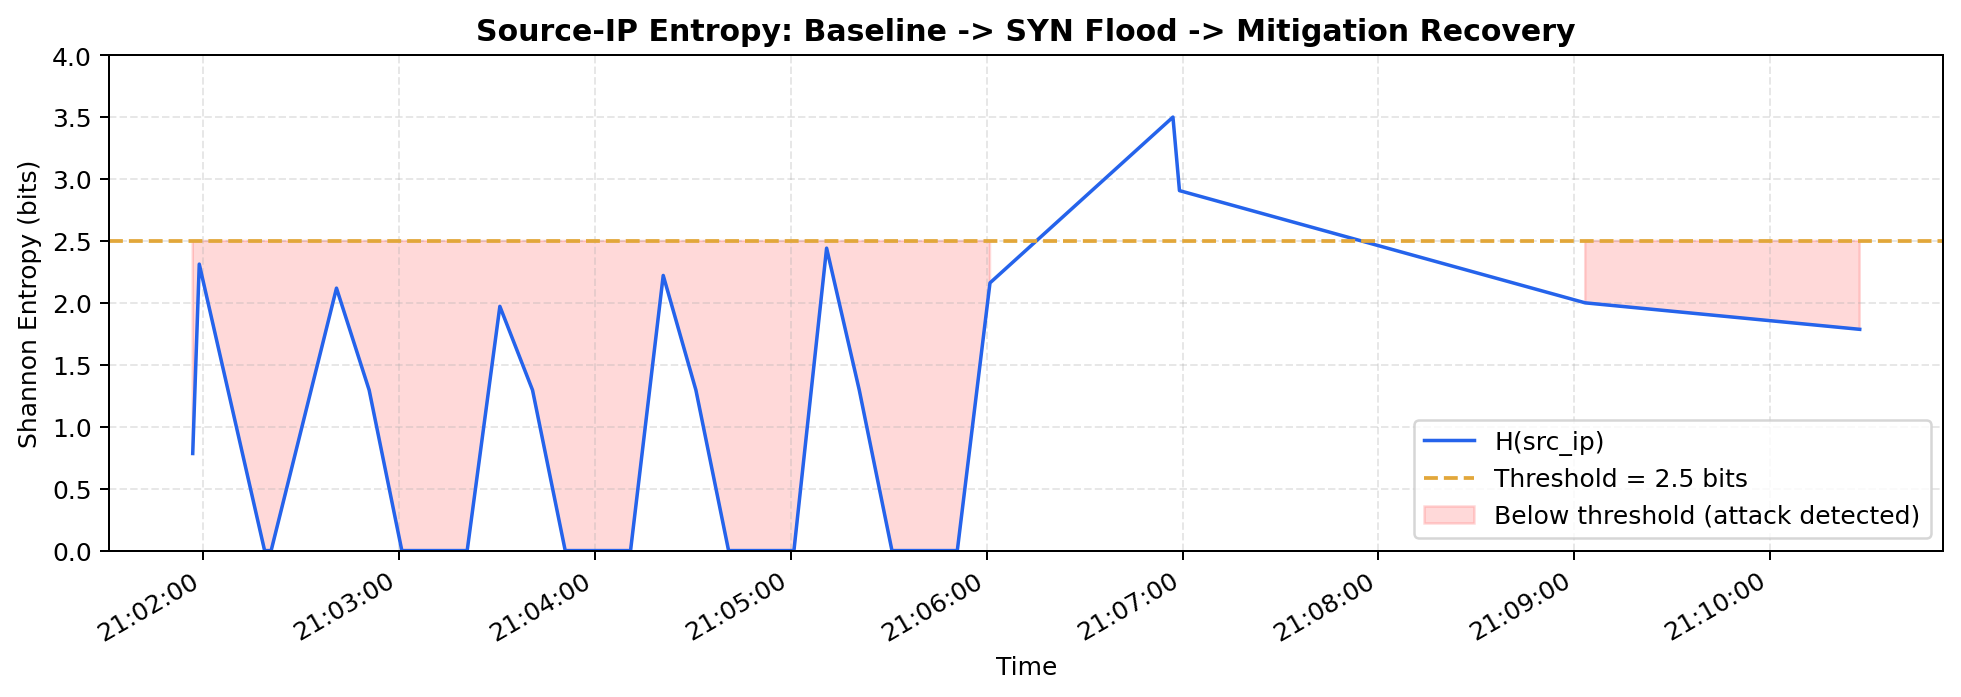
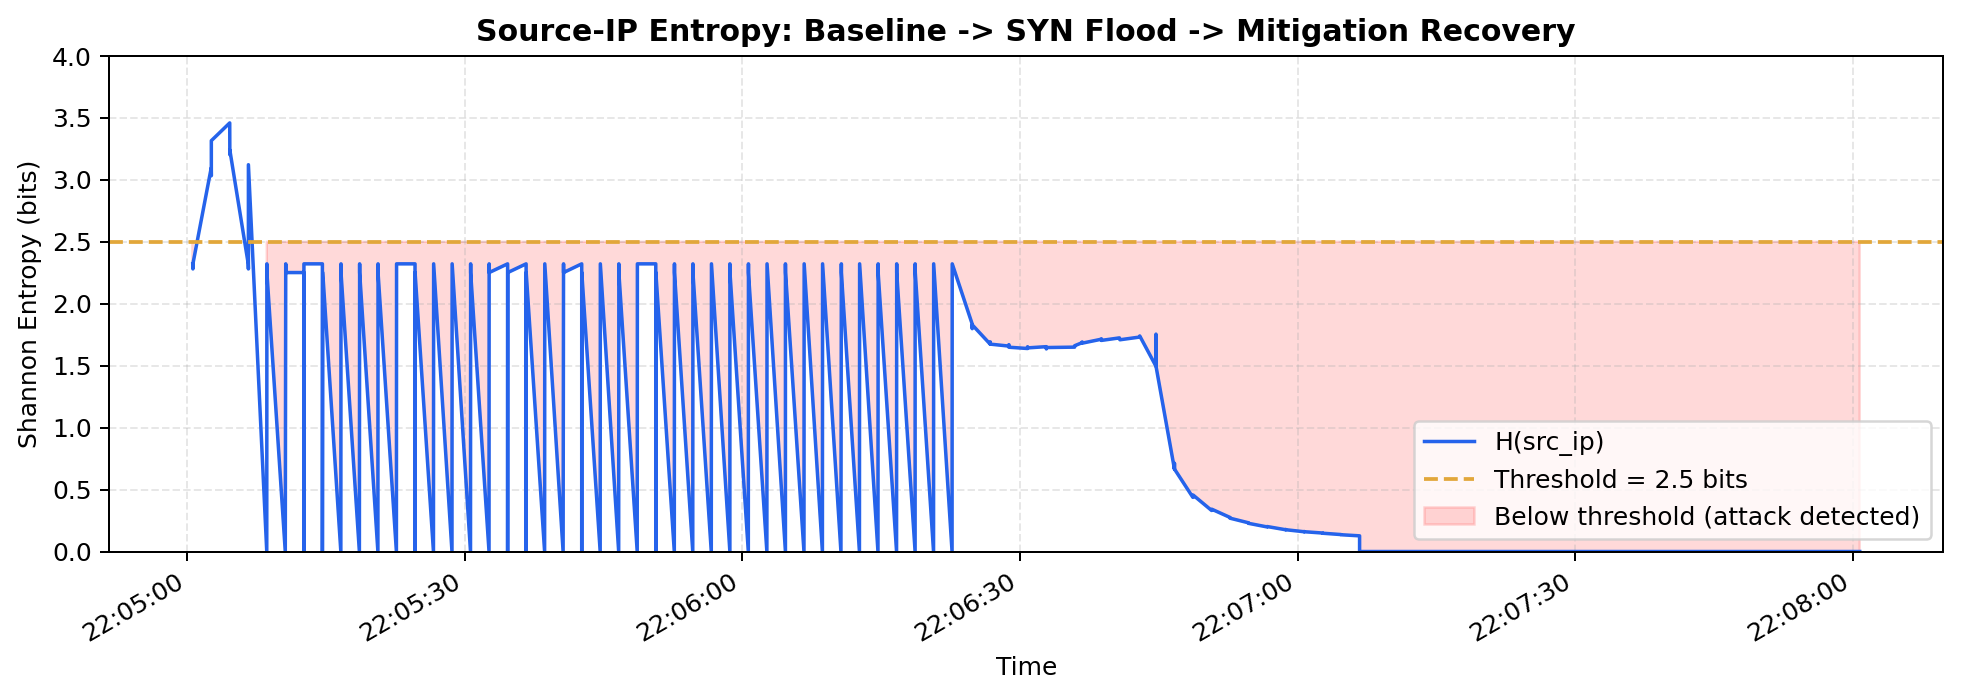
Describe your changes

diff --git a/controller/ddos_controller.py b/controller/ddos_controller.py
@@ -2,26 +2,21 @@
 """
 controller/ddos_controller.py
 
-Ryu OpenFlow 1.3 controller. Responsibilities:
-  1. L2 learning-switch forwarding (packet_in -> learn MAC -> flow_mod)
-  2. Every POLL_INTERVAL seconds: computes Shannon entropy of source IPs
-     seen via packet_in events since the last window, and logs a metrics
-     row (entropy, detection_flag, cpu_pct, mem_mb, n_flows,
-     detection_latency_ms)
-  3. Controller CPU/memory sampled via psutil every 500ms in a background
-     thread.
-  4. Detection latency: measured as the time from the FIRST polling window
-     in which entropy crosses below ENTROPY_THRESH to the moment the
-     mitigation flow-mod is actually installed.
-  5. Mitigation supports two modes: MITIGATION_MODE = "drop" installs a DROP
-     rule; MITIGATION_MODE = "rate_limit" installs an OpenFlow 1.3 meter.
+Ryu OpenFlow 1.3 controller.
 
-NOTE (fix): source-IP entropy is computed from packet_in events, not from
-flow-table stats matched on ipv4_src. Normal L2 forwarding flows installed
-by this controller only match on eth_dst/eth_src/in_port -- they never have
-an ipv4_src field -- so relying on flow stats meant entropy was never
-computed and no metrics rows were ever written. Counting source IPs
-directly off packet_in fixes this.
+Entropy is computed from FLOW STATS (packet_count), polled every
+POLL_INTERVAL seconds -- not from packet_in events. This matters:
+once a forwarding flow is installed, OpenFlow forwards matching packets
+directly at the switch and the controller stops seeing them via
+packet_in. Flow stats' packet_count keeps accumulating regardless, which
+is why this is the correct signal for a smooth, continuous entropy curve.
+
+Since our L2 forwarding flows only match on eth_src/eth_dst/in_port (no
+IP fields), we learn a mac -> ip mapping from packet_in (whenever we do
+see an IP packet) and use that to attribute each flow's packet_count to
+a source IP. We track a running delta (packets since last poll) per IP
+so entropy reflects *recent* traffic mix, not the whole flow's lifetime
+total.
 
 Run:
     ryu-manager controller/ddos_controller.py
@@ -74,9 +69,14 @@ class DDoSController(app_manager.RyuApp):
         self.mem_samples = collections.deque(maxlen=20)
         self._resource_lock = threading.Lock()
 
-        # --- source-IP tracking for entropy (fix: from packet_in, not flow stats) ---
-        self.src_ip_window = collections.Counter()
-        self._src_ip_lock = threading.Lock()
+        # --- mac <-> ip learning (needed because forwarding flows only
+        # match on L2 fields, so flow stats alone can't tell us the IP) ---
+        self.mac_to_ip = {}
+        self._mac_ip_lock = threading.Lock()
+
+        # --- per (dpid, mac) last-seen cumulative packet_count, so we can
+        # compute a DELTA each poll instead of an ever-growing total ---
+        self.last_packet_count = {}
 
         # --- detection latency tracking ---
         self.entropy_below_thresh_since = None
@@ -129,13 +129,12 @@ class DDoSController(app_manager.RyuApp):
         if eth.ethertype == ether_types.ETH_TYPE_LLDP:
             return
 
-        # --- fix: count source IPs here, since this is the only place we
-        # reliably see every packet's IP header, regardless of what match
-        # fields later get installed in the flow table ---
+        # learn mac -> ip whenever we see an IP packet, so flow-stats
+        # (which only carry L2 match fields) can be attributed to an IP
         ip_pkt = pkt.get_protocol(ipv4.ipv4)
         if ip_pkt:
-            with self._src_ip_lock:
-                self.src_ip_window[ip_pkt.src] += 1
+            with self._mac_ip_lock:
+                self.mac_to_ip[eth.src] = ip_pkt.src
 
         dst, src = eth.dst, eth.src
         dpid = datapath.id
@@ -147,7 +146,7 @@ class DDoSController(app_manager.RyuApp):
 
         if out_port != ofproto.OFPP_FLOOD:
             match = parser.OFPMatch(in_port=in_port, eth_dst=dst, eth_src=src)
-            self.add_flow(datapath, 1, match, actions, idle_timeout=30)
+            self.add_flow(datapath, 1, match, actions, idle_timeout=120)
 
         data = msg.data if msg.buffer_id == ofproto.OFP_NO_BUFFER else None
         out = parser.OFPPacketOut(
@@ -173,22 +172,46 @@ class DDoSController(app_manager.RyuApp):
             mem = sum(self.mem_samples) / len(self.mem_samples) if self.mem_samples else 0.0
         return round(cpu, 2), round(mem, 2)
 
-    # ---------------- entropy monitoring loop (fix: packet_in based) ----------------
+    # ---------------- entropy monitoring loop (flow-stats based) ----------------
     def _monitor(self):
         while True:
+            for dp in list(self.datapaths.values()):
+                self._request_stats(dp)
             hub.sleep(POLL_INTERVAL)
-            self._check_entropy()
 
-    def _check_entropy(self):
-        with self._src_ip_lock:
-            counter_snapshot = self.src_ip_window.copy()
-            self.src_ip_window.clear()
+    def _request_stats(self, datapath):
+        parser = datapath.ofproto_parser
+        req = parser.OFPFlowStatsRequest(datapath)
+        datapath.send_msg(req)
 
-        if not counter_snapshot:
-            # no traffic seen this window -- nothing to log yet
-            return
+    @set_ev_cls(ofp_event.EventOFPFlowStatsReply, MAIN_DISPATCHER)
+    def flow_stats_reply_handler(self, ev):
+        dpid = ev.msg.datapath.id
+        src_ip_counter = collections.Counter()
 
-        h = self._shannon_entropy(counter_snapshot)
+        with self._mac_ip_lock:
+            mac_to_ip_snapshot = dict(self.mac_to_ip)
+
+        for stat in ev.msg.body:
+            eth_src = stat.match.get("eth_src")
+            if not eth_src:
+                continue  # e.g. the table-miss rule, no eth_src match
+            src_ip = mac_to_ip_snapshot.get(eth_src)
+            if not src_ip:
+                continue  # haven't learned this mac's ip yet
+
+            key = (dpid, eth_src)
+            prev_count = self.last_packet_count.get(key, stat.packet_count)
+            delta = max(0, stat.packet_count - prev_count)
+            self.last_packet_count[key] = stat.packet_count
+
+            if delta > 0:
+                src_ip_counter[src_ip] += delta
+
+        if not src_ip_counter:
+            return  # no new traffic seen this window
+
+        h = self._shannon_entropy(src_ip_counter)
         detection_flag = 1 if h < ENTROPY_THRESH else 0
         cpu_pct, mem_mb = self._current_resource_snapshot()
         latency_ms = None
@@ -197,18 +220,16 @@ class DDoSController(app_manager.RyuApp):
         if detection_flag:
             if self.entropy_below_thresh_since is None:
                 self.entropy_below_thresh_since = now
-            attacker_ip = counter_snapshot.most_common(1)[0][0]
+            attacker_ip = src_ip_counter.most_common(1)[0][0]
             self.logger.info(
                 "ALERT DDoS detected | entropy=%.3f | suspected_src=%s", h, attacker_ip
             )
-            if self.datapaths:
-                dp = next(iter(self.datapaths.values()))
-                self._install_mitigation(dp, attacker_ip)
-                latency_ms = round((time.time() - self.entropy_below_thresh_since) * 1000, 2)
+            self._install_mitigation(ev.msg.datapath, attacker_ip)
+            latency_ms = round((time.time() - self.entropy_below_thresh_since) * 1000, 2)
         else:
             self.entropy_below_thresh_since = None
 
-        self._log_metrics(h, detection_flag, cpu_pct, mem_mb, len(counter_snapshot), latency_ms)
+        self._log_metrics(h, detection_flag, cpu_pct, mem_mb, len(src_ip_counter), latency_ms)
 
     @staticmethod
     def _shannon_entropy(counter):
